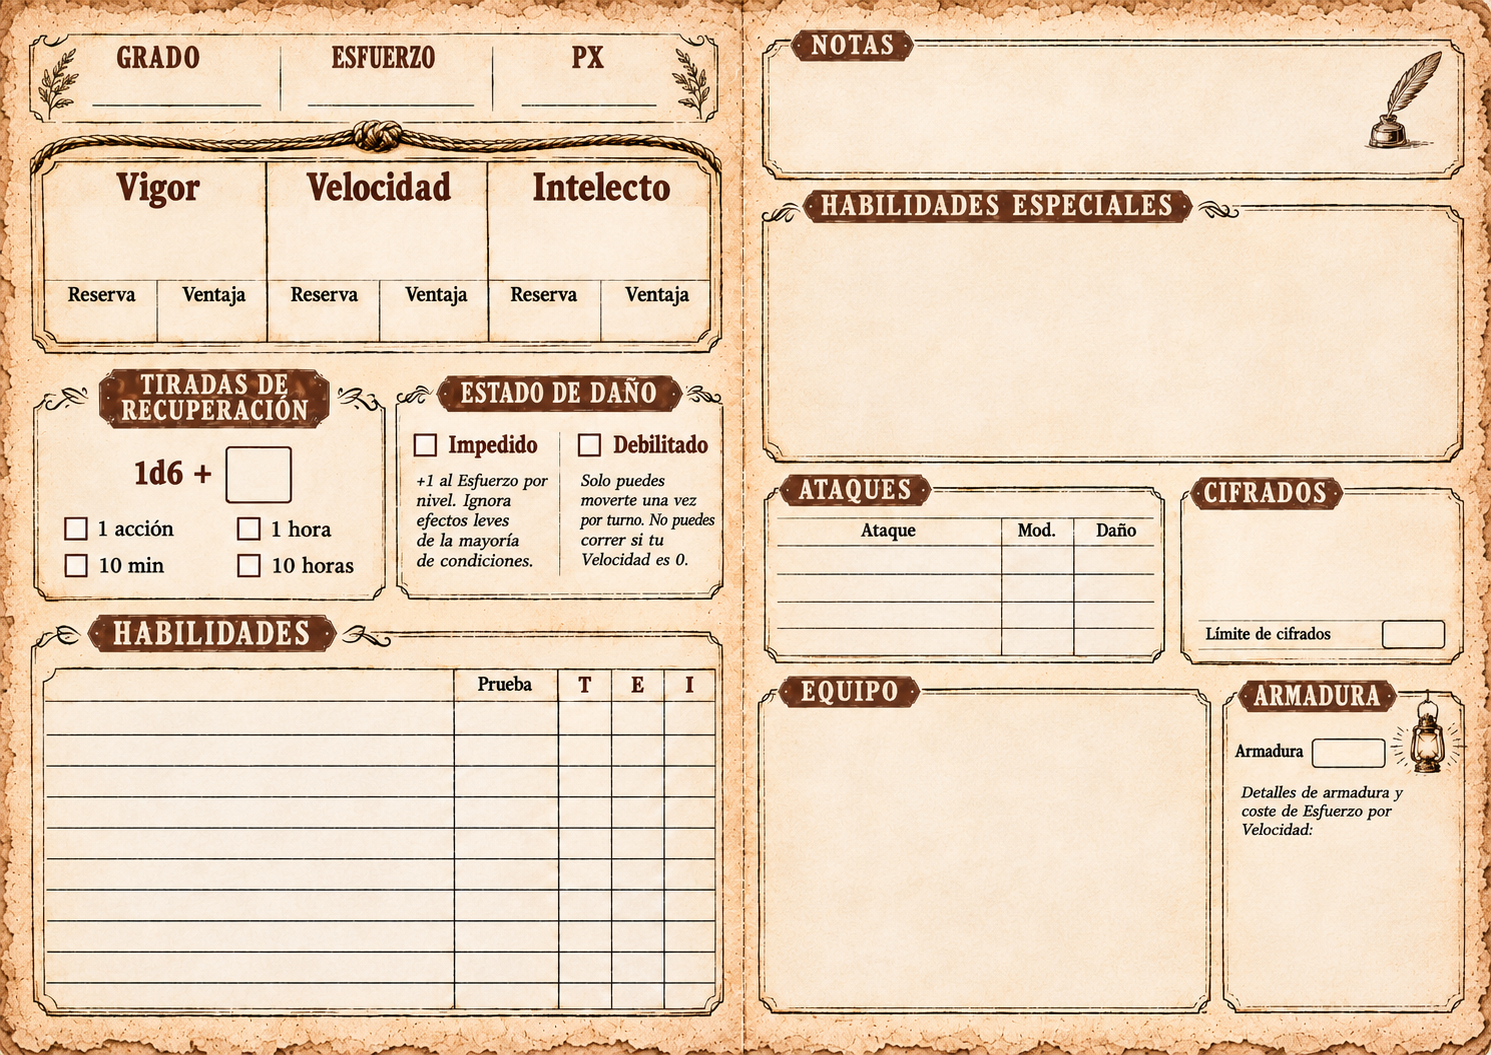
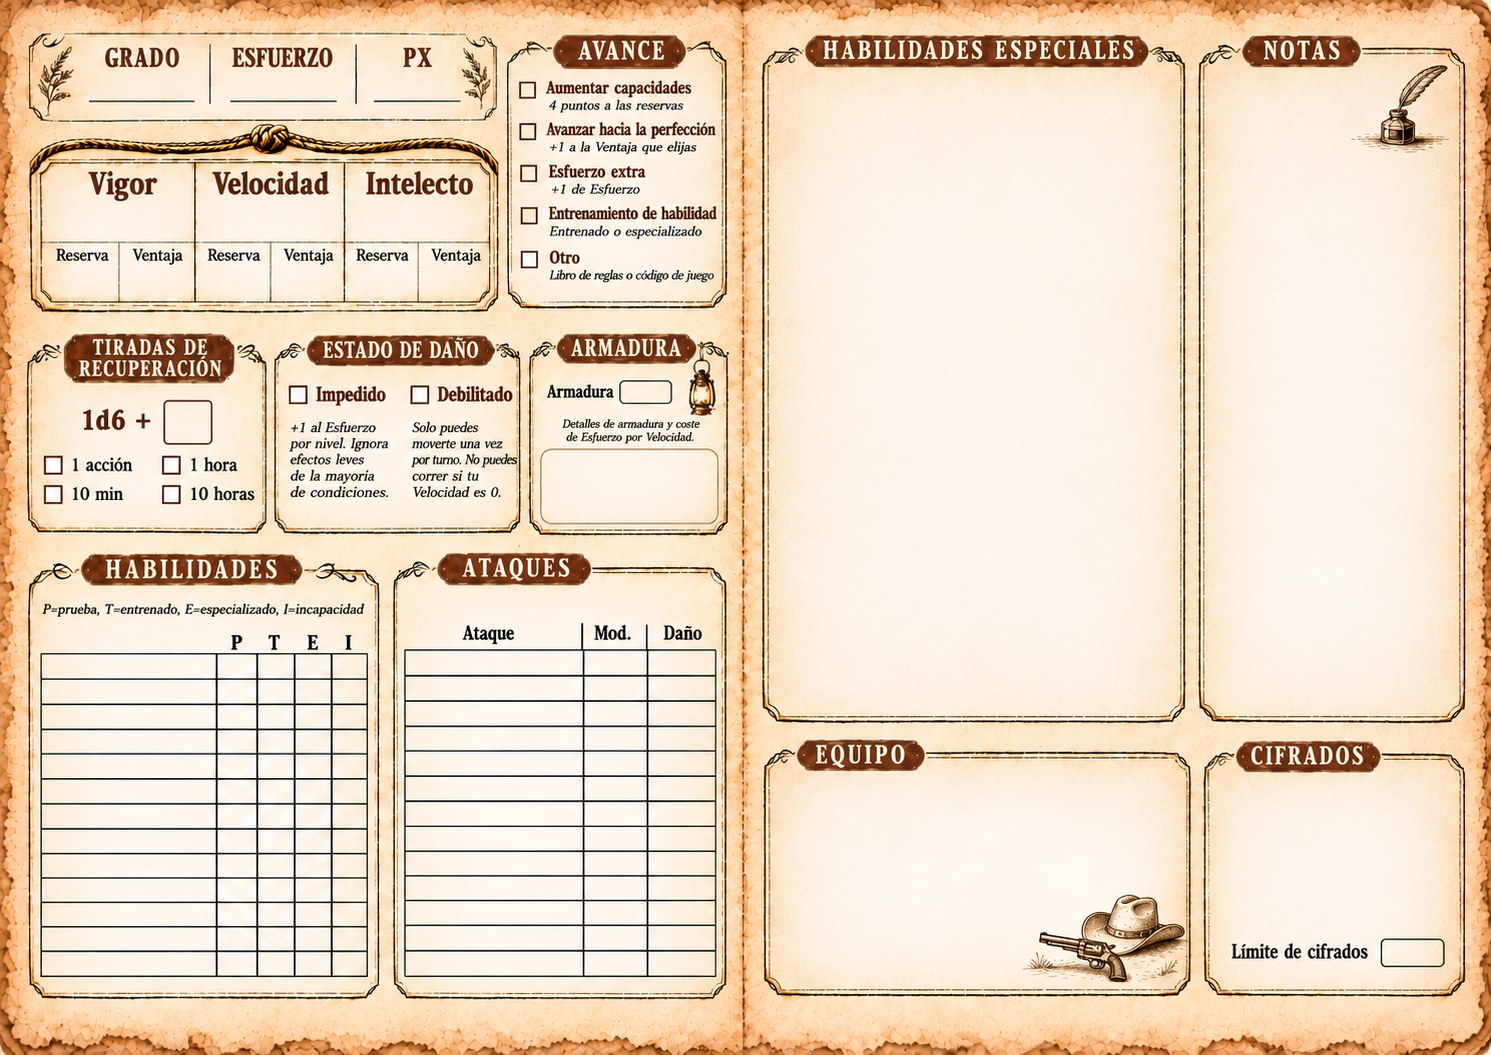
Nuevo reverso del layout A3: avance, armadura y tablas de 13 filas
Zonas del reverso medidas de nuevo sobre la plantilla actualizada: casillas de
avance, armadura junto a daño, habilidades y ataques de 13 filas, y habilidades
especiales, notas, equipo y cifrados en la página derecha.

diff --git a/layouts/periodico-a3-es.js b/layouts/periodico-a3-es.js
@@ -2,9 +2,8 @@
  * páginas A4 juntas, para doblar por la mitad como un cuadernillo.
  *   - Anverso: trasfondo, arcos y notas breves (izquierda); portada con retrato y
  *     nombre, descriptor, tipo y enfoque (derecha).
- *   - Reverso: grado, reservas, recuperación, daño y habilidades (izquierda); notas,
- *     habilidades especiales, ataques, cifrados, equipo y armadura (derecha).
- * No tiene casillas de avance (el dato se conserva en la ficha).
+ *   - Reverso: grado, reservas, avance, recuperación, daño, armadura, habilidades y
+ *     ataques (izquierda); habilidades especiales, notas, equipo y cifrados (derecha).
  * Posiciones medidas sobre la imagen; se pueden retocar desde la pestaña Layouts.
  */
 import { F, T } from './fields.js';
@@ -24,37 +23,44 @@ const front = [
 ];
 
 const back = [
-  F('text', 'tier', 92, 70, 170, 36, { fs: 28, cls: 'center' }),
-  F('text', 'effort', 307, 70, 170, 36, { fs: 28, cls: 'center' }),
-  F('text', 'xp', 522, 70, 136, 36, { fs: 28, cls: 'center' }),
+  F('text', 'tier', 89, 72, 104, 27, { fs: 24, cls: 'center' }),
+  F('text', 'effort', 231, 72, 104, 27, { fs: 24, cls: 'center' }),
+  F('text', 'xp', 374, 72, 85, 27, { fs: 24, cls: 'center' }),
 
   // Vigor / Velocidad / Intelecto: encima de "Reserva" la reserva actual; encima de
   // "Ventaja" la lista con el valor inicial y sus incrementos; bajo "Ventaja", la ventaja.
-  ...[['might', 45, 157, 266], ['speed', 267, 379, 487], ['intellect', 488, 600, 709]].flatMap(([k, l, m, r]) => [
-    F('text', `${k}.pool`, l + 4, 210, m - l - 8, 68, { fs: 36, cls: 'center', ph: '–', title: 'Reserva actual' }),
-    F('steps', `${k}.max`, m + 4, 208, r - m - 8, 70, { ph: 'inicial\n+…' }),
-    F('text', `${k}.edge`, m + 4, 309, r - m - 8, 31, { fs: 18, cls: 'center', ph: '–', title: 'Ventaja' }),
+  ...[['might', 41, 119, 194], ['speed', 195, 270, 344], ['intellect', 344, 418, 489]].flatMap(([k, l, m, r]) => [
+    F('text', `${k}.pool`, l + 3, 201, m - l - 6, 40, { fs: 30, cls: 'center', ph: '–', title: 'Reserva actual' }),
+    F('steps', `${k}.max`, m + 3, 199, r - m - 6, 42, { ph: 'inicial\n+…' }),
+    F('text', `${k}.edge`, m + 3, 267, r - m - 6, 32, { fs: 18, cls: 'center', ph: '–', title: 'Ventaja' }),
   ]),
 
-  F('text', 'recovery.bonus', 229, 452, 60, 50, { fs: 28, cls: 'center' }),
-  F('cb', 'recovery.action', 64, 521, 22, 22),
-  F('cb', 'recovery.hour', 237, 521, 22, 22),
-  F('cb', 'recovery.tenMin', 65, 558, 22, 22),
-  F('cb', 'recovery.tenHours', 237, 558, 22, 22),
-  F('cb', 'damage.impaired', 414, 436, 22, 22),
-  F('cb', 'damage.debilitated', 578, 436, 22, 22),
+  F('cb', 'adv.capabilities', 520, 82, 16, 16),
+  F('cb', 'adv.perfection', 520, 123, 16, 16),
+  F('cb', 'adv.effort', 520, 165, 16, 16),
+  F('cb', 'adv.skill', 520, 207, 16, 16),
+  F('cb', 'adv.other', 521, 251, 16, 16),
 
-  // Habilidades (10 filas, con columna de prueba) y ataques (5 filas)
-  T('skills', 43, 705, 672, 307, 10, [['name', 0.6101], ['test', 0.1548], ['t', 0.0804], ['s', 0.0774], ['i', 0.0773]]),
-  T('attacks', 766, 561, 396, 139, 5, [['name', 0.596], ['mod', 0.1717], ['damage', 0.2323]]),
+  F('text', 'recovery.bonus', 166, 403, 43, 38, { fs: 24, cls: 'center' }),
+  F('cb', 'recovery.action', 45, 457, 16, 16),
+  F('cb', 'recovery.hour', 163, 457, 16, 16),
+  F('cb', 'recovery.tenMin', 45, 486, 16, 16),
+  F('cb', 'recovery.tenHours', 163, 486, 16, 16),
+  F('cb', 'damage.impaired', 290, 387, 16, 16),
+  F('cb', 'damage.debilitated', 411, 387, 17, 16),
 
-  F('md', 'notes', 772, 72, 600, 196),
-  F('md', 'abilities', 776, 328, 678, 136),
-  F('md', 'cyphers', 1186, 522, 268, 128),
-  F('text', 'cypherLimit', 1379, 659, 66, 29, { fs: 20, cls: 'center' }),
-  F('md', 'equipment', 772, 752, 340, 258),
-  F('text', 'armor', 1247, 772, 108, 37, { fs: 24, cls: 'center' }),
-  F('md', 'armorDetails', 1148, 862, 304, 148),
+  F('text', 'armor', 622, 382, 48, 21, { fs: 16, cls: 'center' }),
+  F('md', 'armorDetails', 544, 452, 170, 68),
+
+  // Habilidades (13 filas, con columna de prueba) y ataques (13 filas)
+  T('skills', 41, 655, 326, 321, 13, [['name', 0.5399], ['test', 0.1227], ['t', 0.1166], ['s', 0.1104], ['i', 0.1104]]),
+  T('attacks', 405, 651, 311, 325, 13, [['name', 0.5756], ['mod', 0.2026], ['damage', 0.2218]]),
+
+  F('md', 'abilities', 775, 72, 400, 638),
+  F('md', 'notes', 1207, 152, 246, 558), // empieza bajo la pluma
+  F('md', 'equipment', 772, 775, 410, 208),
+  F('md', 'cyphers', 1212, 776, 244, 156),
+  F('text', 'cypherLimit', 1383, 940, 60, 25, { fs: 18, cls: 'center' }),
 ];
 
 export default {

diff --git a/README.md b/README.md
@@ -25,7 +25,7 @@ No necesita servidor ni instalación: son archivos estáticos (HTML + CSS + JS) 
 Un layout es el diseño de la hoja: las imágenes de sus páginas (una o varias, apaisadas o verticales) y dónde va cada dato. Todos los layouts comparten los datos de la ficha, así que la misma ficha se puede ver con cualquiera; lo que un layout no muestra se conserva.
 
 - **Qué layout se usa**: lo decide la partida en la que juega el personaje (no se elige en la ficha). Si está en varias, el de la partida activa con la sesión más reciente; si no está en ninguna, el primero (Oficial OGOA English).
-- **Incluidos**: *Oficial OGOA English* (2 páginas apaisadas), *Periódico OGOA Español* (2 páginas verticales) y *Periódico A3 OGOA Español* (2 caras A3 apaisadas, cada una con dos páginas A4 para doblar como cuadernillo; tiene una caja extra de *Notas breves* y no tiene casillas de avance).
+- **Incluidos**: *Oficial OGOA English* (2 páginas apaisadas), *Periódico OGOA Español* (2 páginas verticales) y *Periódico A3 OGOA Español* (2 caras A3 apaisadas, cada una con dos páginas A4 para doblar como cuadernillo; tiene una caja extra de *Notas breves*).
 - **Pestaña Layouts**:
   - **+** crea un layout nuevo. Con **+ Página** se sube la imagen de cada página (PNG o JPG; se comprime a JPEG para que quepa en la base de datos).
   - Sobre la imagen se **dibujan las zonas** arrastrando el ratón, y a cada una se le asigna un campo de la ficha. Las habilidades y los ataques son una sola zona de tabla con filas y columnas; las líneas verticales se arrastran para ajustar las columnas.
